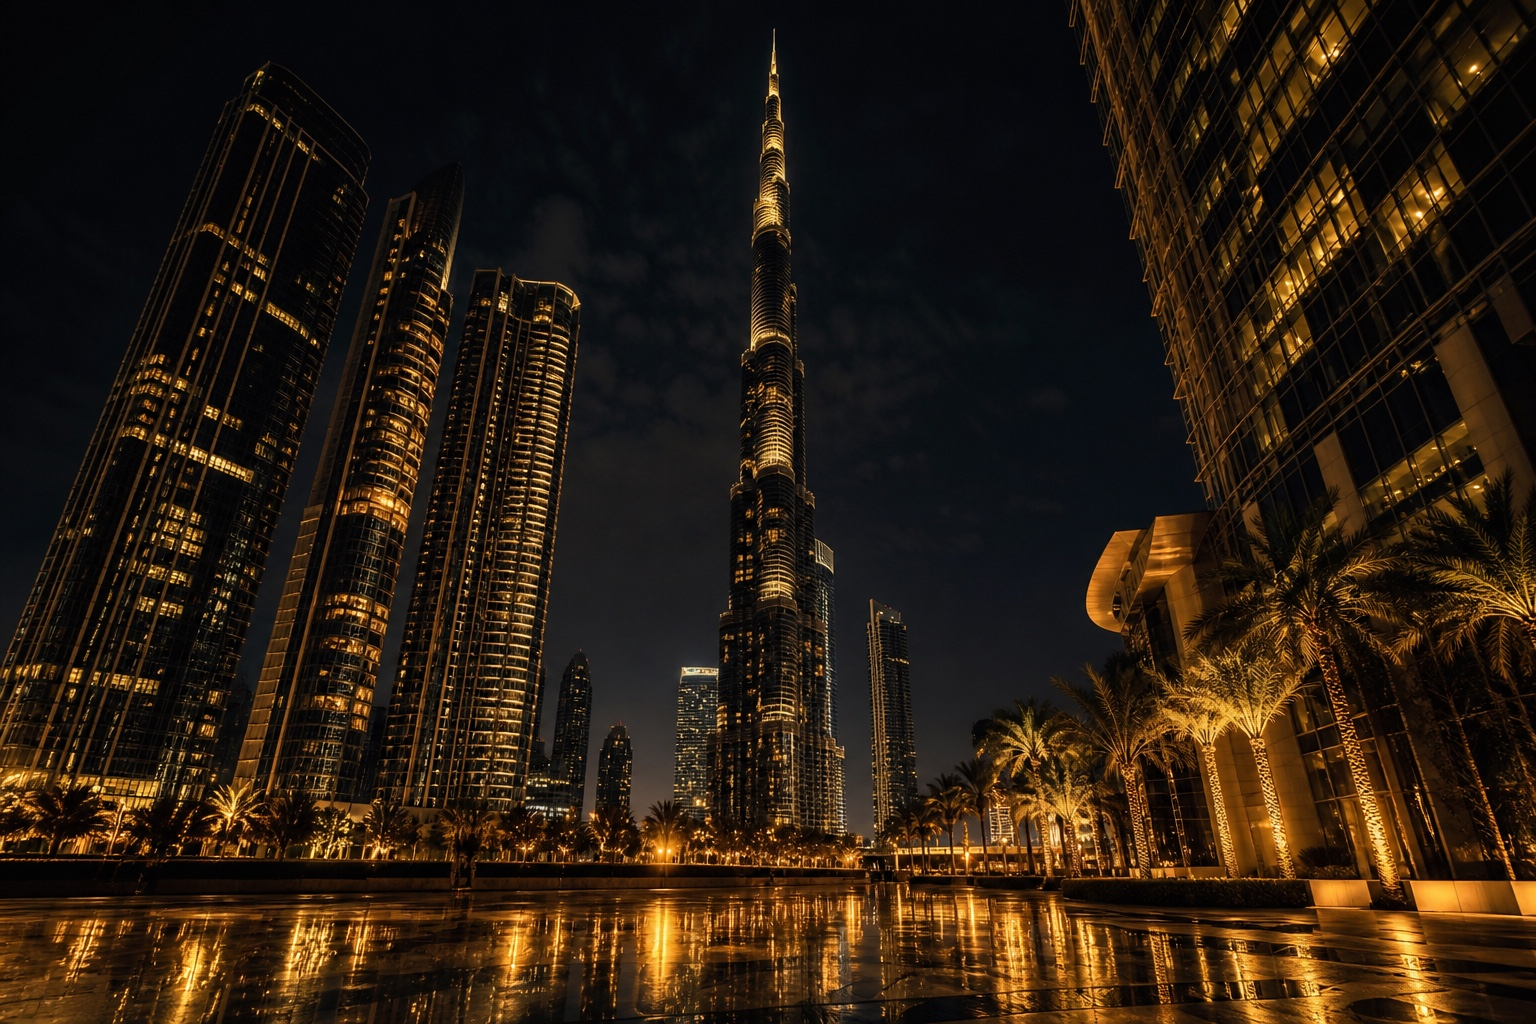
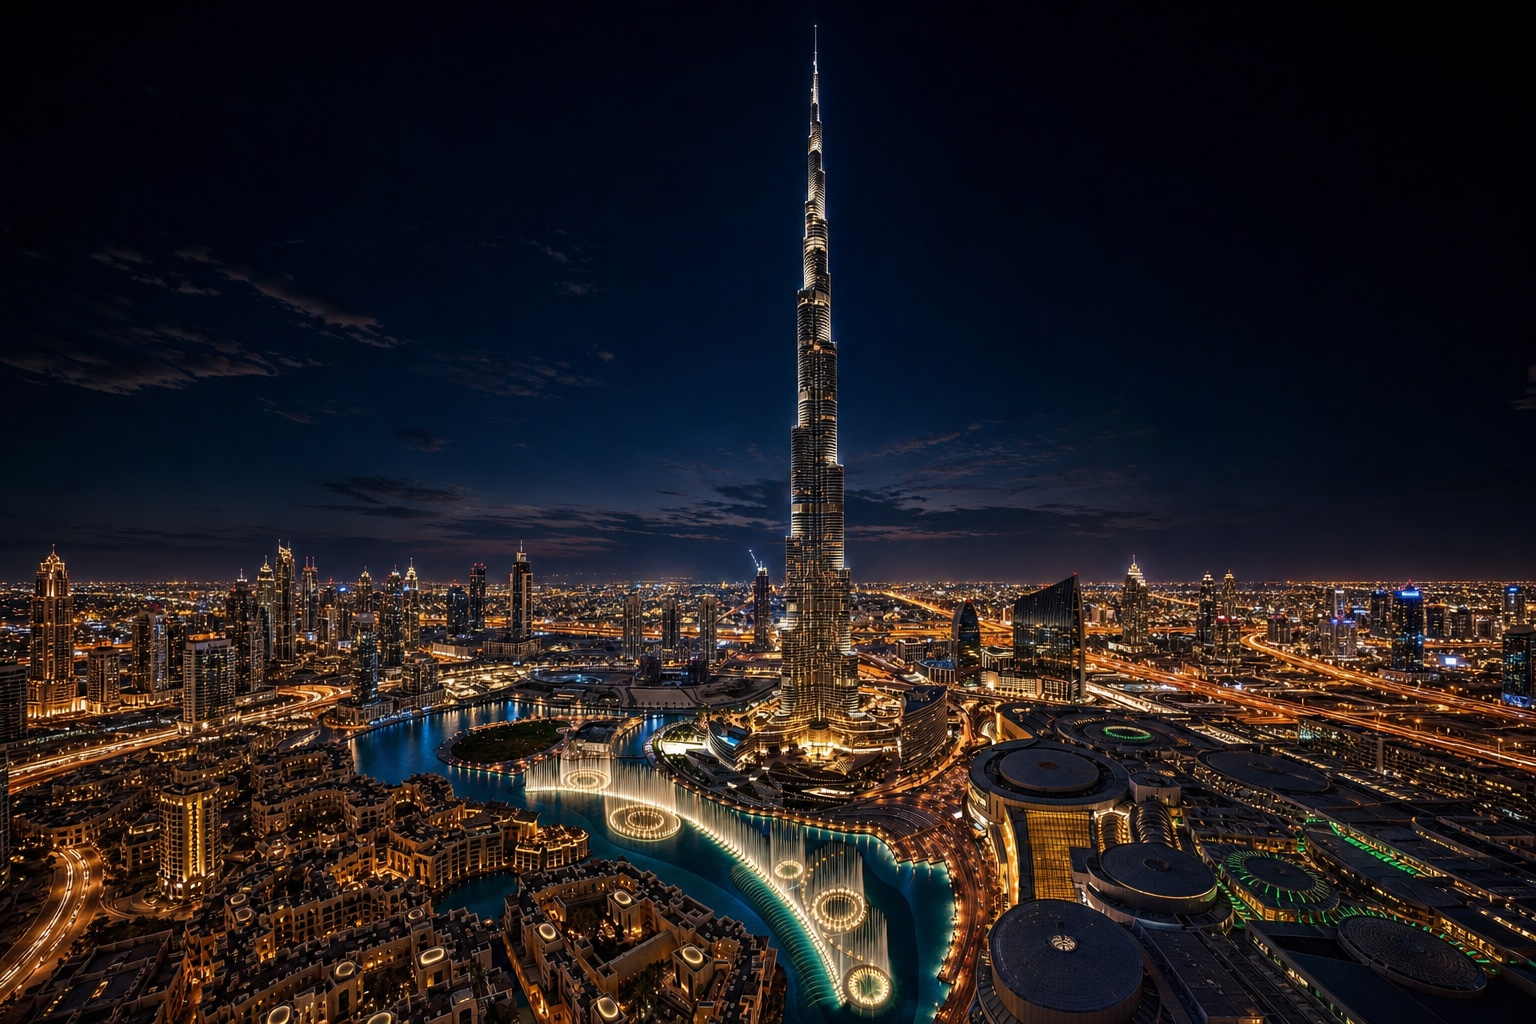
Fill the hero with a landscape expansion of the Dubai night still.

diff --git a/css/styles.css b/css/styles.css
@@ -636,10 +636,10 @@ body.menu-open {
 
 .hero-bg {
   position: absolute;
-  inset: -8%;
-  background: #081830 url("../assets/hero-dubai.jpg") center 38% / cover no-repeat;
-  transform: scale(1.08);
-  filter: brightness(0.9) saturate(1.08) contrast(1.06);
+  inset: -4%;
+  background: #081830 url("../assets/hero-dubai.jpg") center 42% / cover no-repeat;
+  transform: scale(1.04);
+  filter: brightness(0.92) saturate(1.06) contrast(1.04);
 }
 
 html.is-ready .hero-bg,
@@ -861,10 +861,10 @@ html[dir="rtl"] .btn-ghost .arrow::after {
 
 @keyframes ken {
   from {
-    transform: scale(1.08) translate3d(0, 0, 0);
+    transform: scale(1.04) translate3d(0, 0, 0);
   }
   to {
-    transform: scale(1.16) translate3d(-1.5%, 1%, 0);
+    transform: scale(1.1) translate3d(-1.2%, 0.8%, 0);
   }
 }
 
